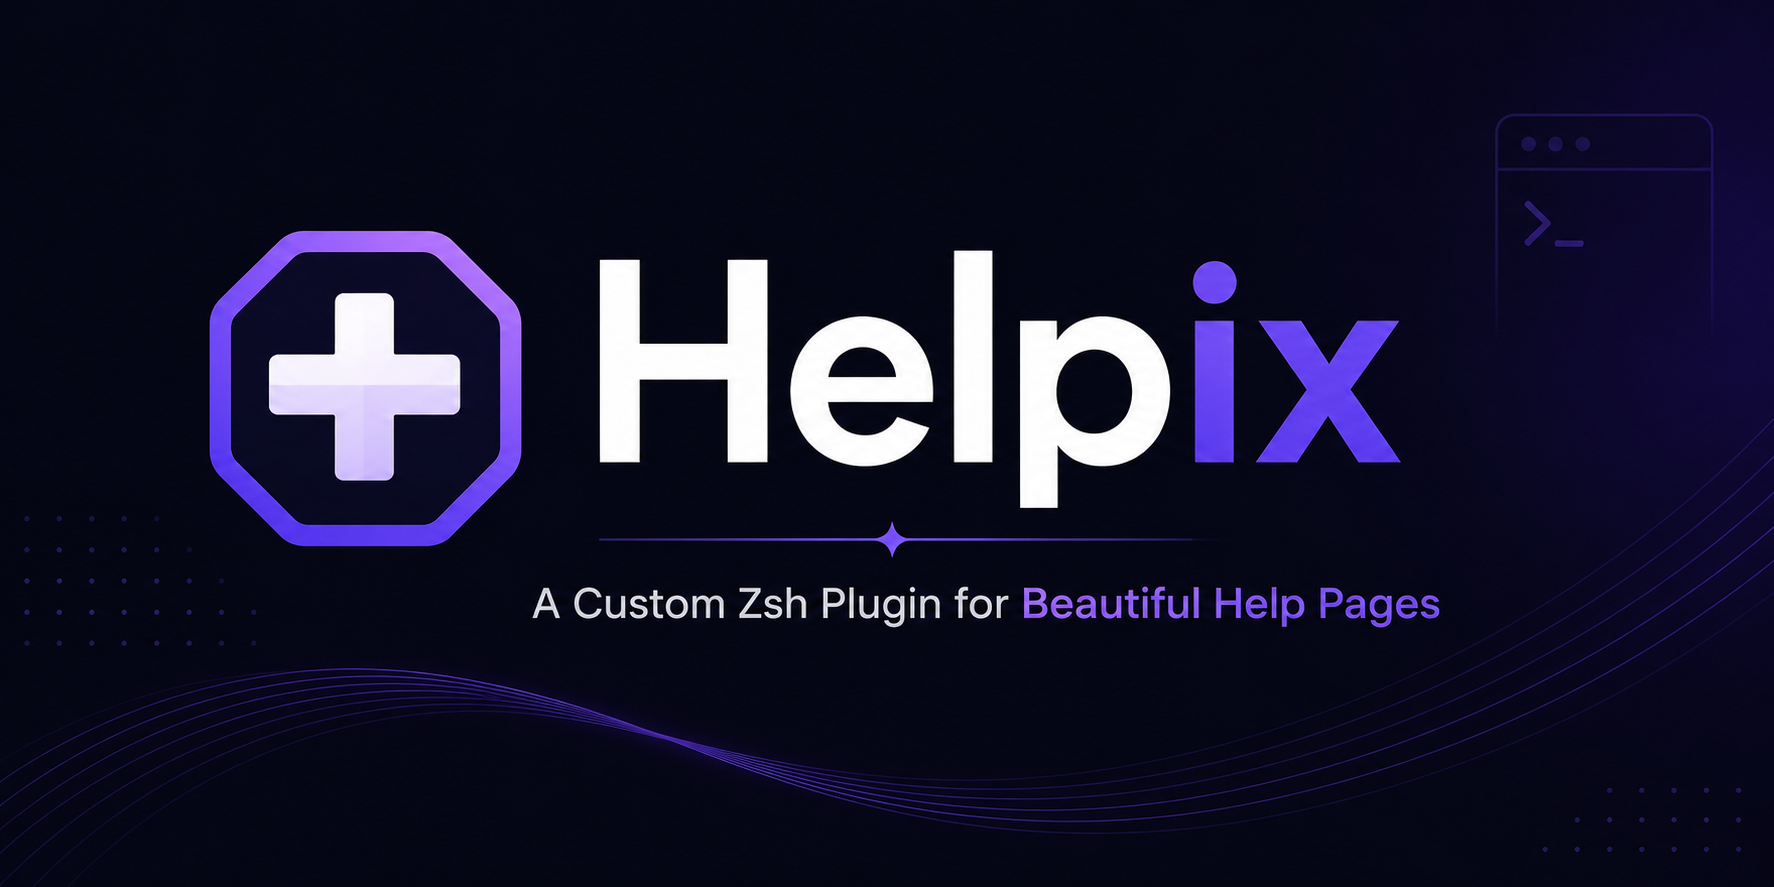
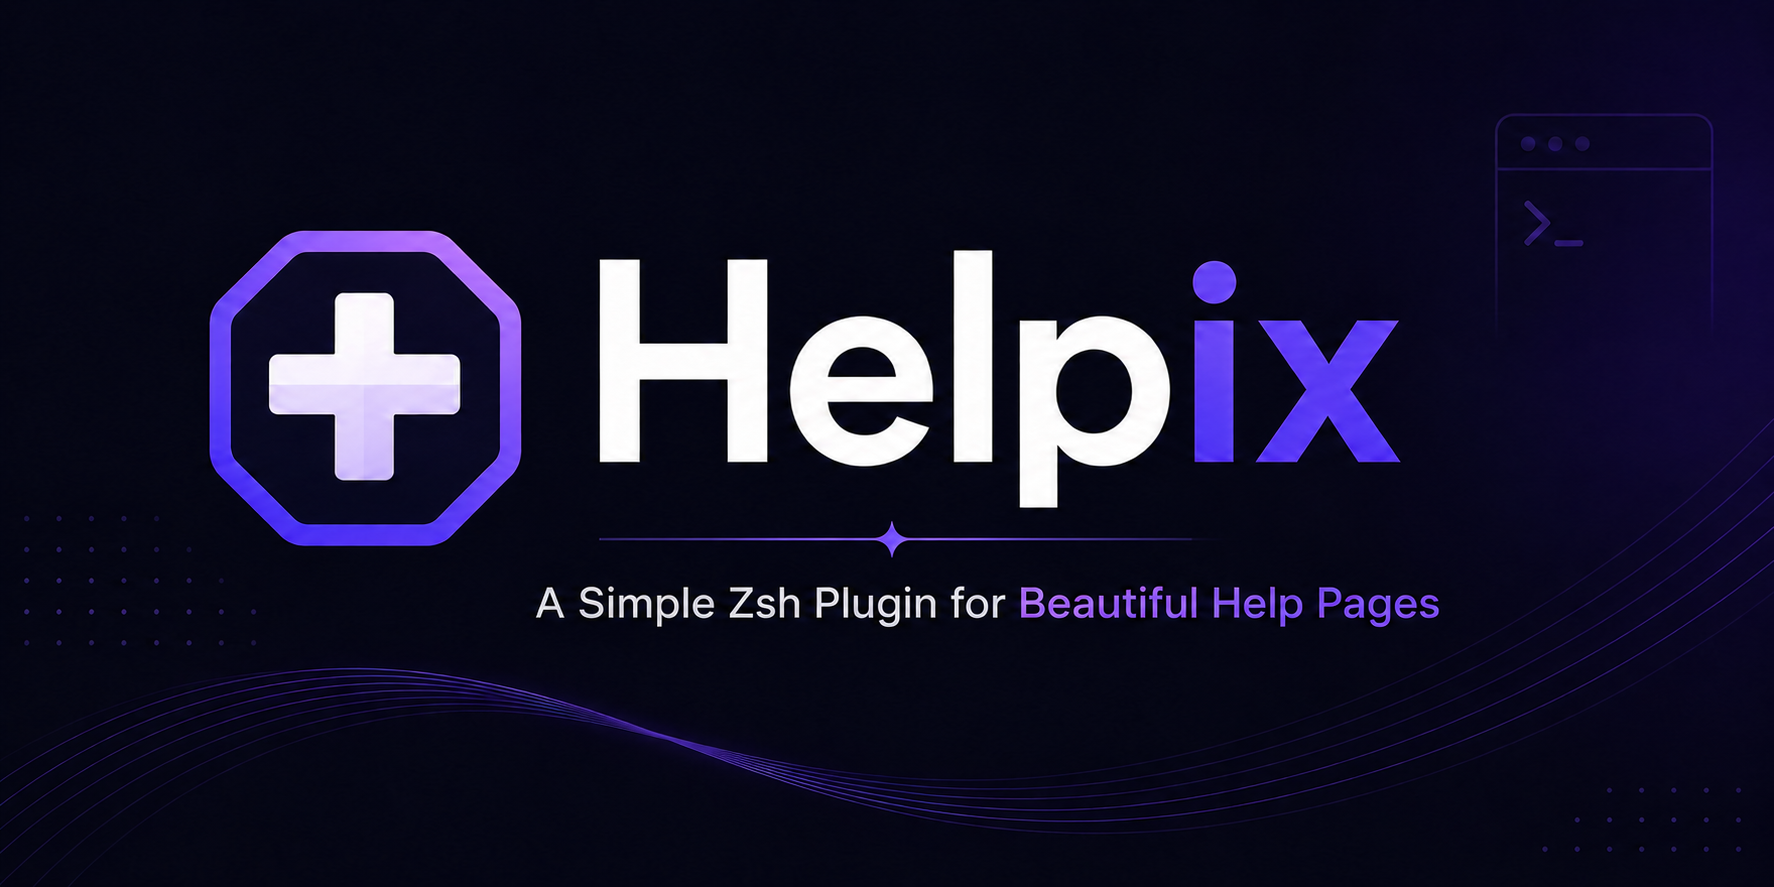
Finishing touches

Changed region(s): [[0.279, 0.6392, 0.8061, 0.7001], [0.186, 0.761, 0.217, 0.7914]]

diff --git a/README.md b/README.md
@@ -11,7 +11,7 @@ Get a pretty, colored, and easy-to-read help output when you type `-h` or `--hel
 
 ## How it works?
 
-Simply, it intercepts those `-h` / `--help` flags in Zsh commands and pipes the output to **bat** for a colorful output.
+Simply, it intercepts those `-h` / `--help` flags in Zsh commands and pipes the output to `bat` for a colorful output.
 
 Sounds amazing, let's give it a try! 🤩
 
@@ -20,7 +20,7 @@ Sounds amazing, let's give it a try! 🤩
 - Zsh 
 - [Bat](https://github.com/sharkdp/bat)
 
-## Installation
+## 🚀 Installation
 
 ### Manual
 
@@ -47,18 +47,19 @@ plugins(
 ```
 Restart your shell.
 
-**To use it, just type any commands normally** 🔥
+**To use it, just run any commands normally** 🔥
 
 ```bash
 ls -h
 git --help
 ```
+<br />
 
 ## Customization
 
-By default, Helpix uses `bat` as its viewer, but you can change it to something else, such as `most`, `less` or `more`.
+By default, Helpix uses `bat` as its viewer, but you can switch to another viewer, such as `most`, `less`, or `more`.
 
-You only need to type this under your plugins array:
+Simply add this under your plugins array:
 
 ```bash
 HELPIX_VIEWER="less"
@@ -70,7 +71,14 @@ Helpix is enabled by default, but you can disable it without removing it from yo
 HELPIX_ENABLED=0
 ```
 
-There is also a third parameter for designings which set to `--language=help --style=plain --color=always`. If you don't like this customization of `bat` you can always change it to something you prefer by setting the **`HELPIX_STYLE`** to what you desire. see [bat](https://github.com/sharkdp/bat) for more information.
+Helpix also provides a third option for styling, which it passes the following options to `bat`:
+
+```bash
+--language=help --style=plain --color=always
+```
+
+If you prefer different `bat` options, you can override them by setting **`HELPIX_STYLE`** to your preferred values. See the [bat](https://github.com/sharkdp/bat) docs for more information.
+
 
 <br />
 
@@ -80,6 +88,6 @@ There is also a third parameter for designings which set to `--language=help --s
 
 Link to the article
 
-[Medium]() | [Dev Community]()
+[Medium](https://medium.com/@i17717/how-i-turned-my-terminal-into-an-aesthetic-experience-c32b5772d12c) | [DEV Community](https://dev.to/i17717/how-i-turned-my-terminal-into-an-aesthetic-experience-3efj)
 
 </span>